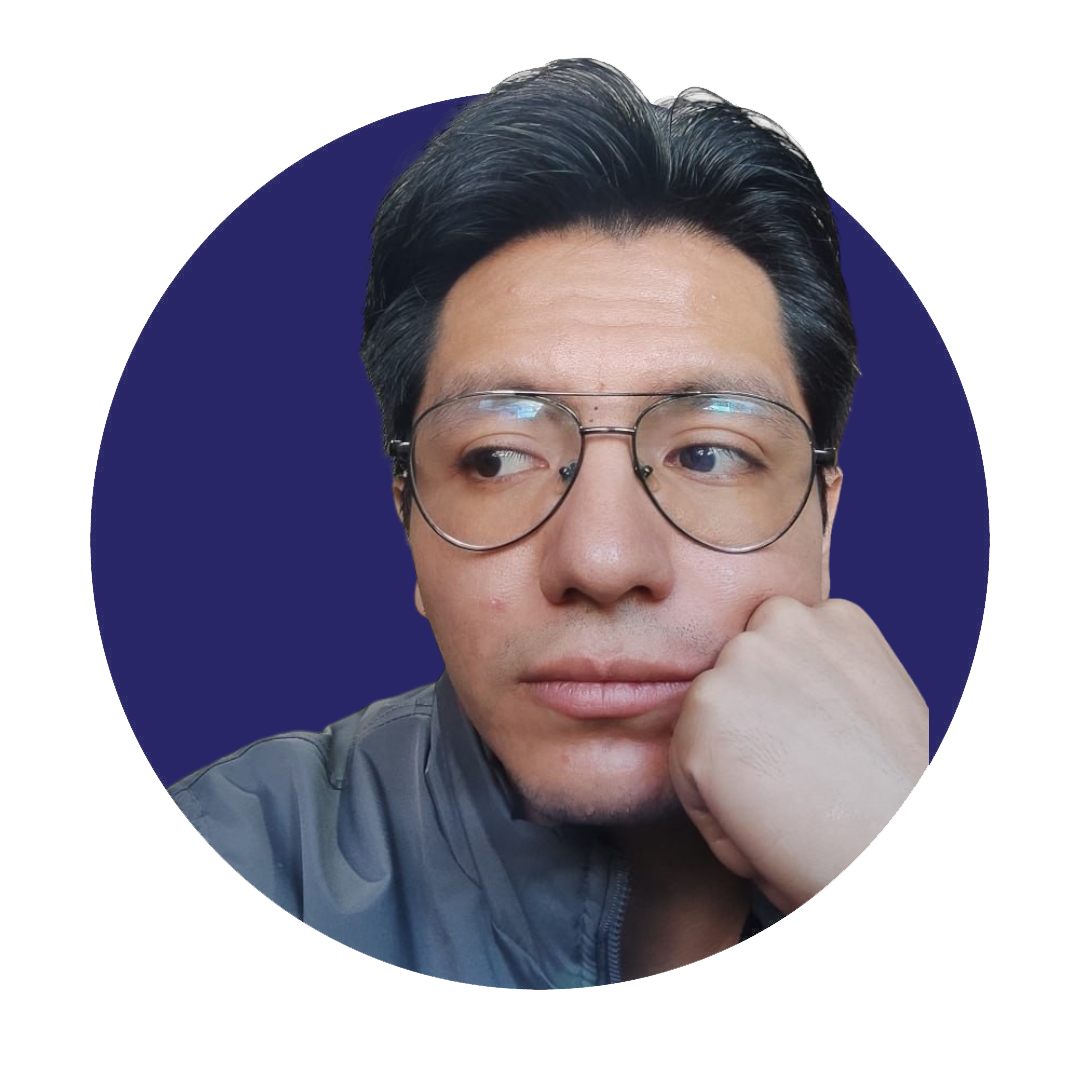
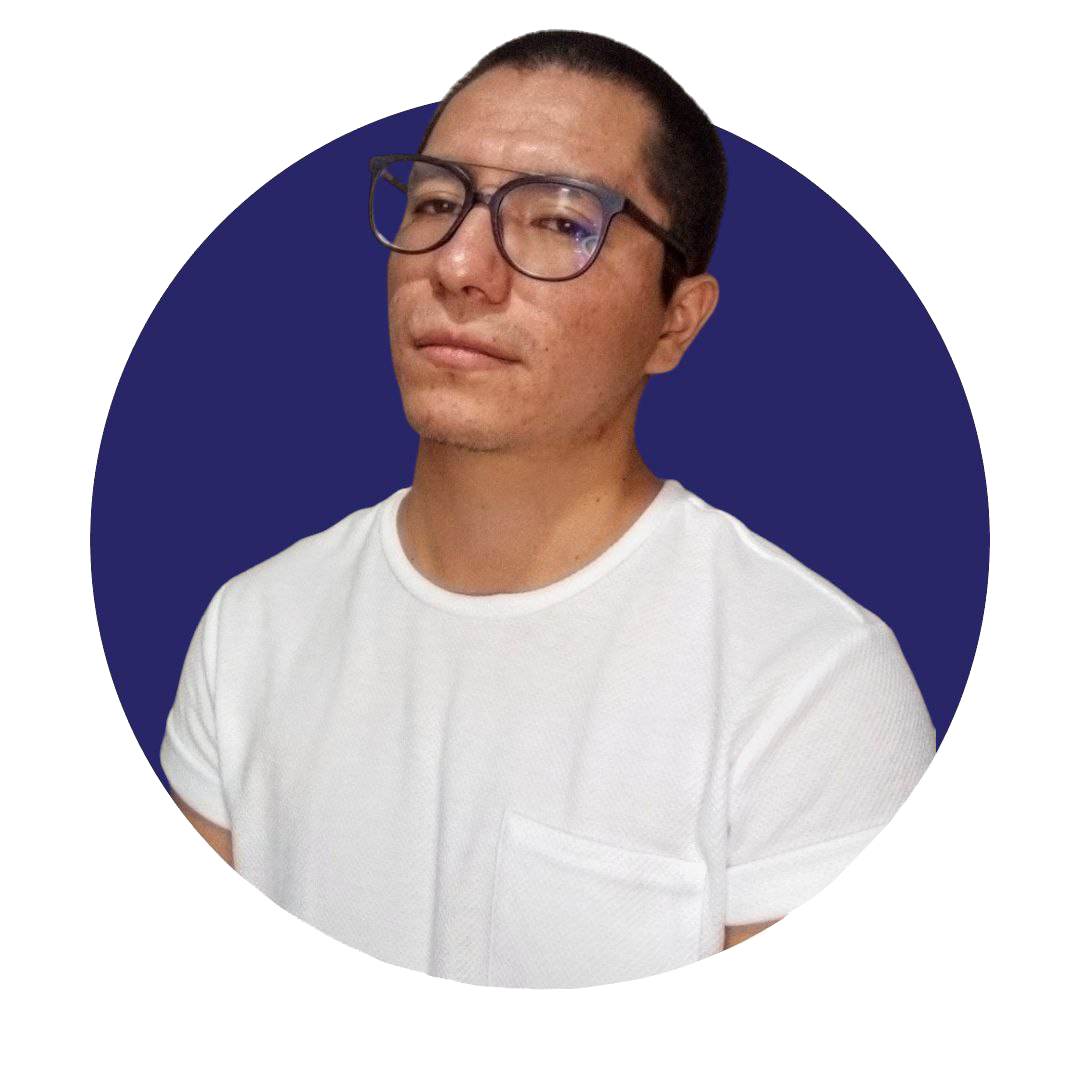
Se corrigió el espaciado en el mensaje YolliCalli del modal de envío. También se modificó la imagen de Jetsael en la sección de conocenos ->aabn

diff --git a/css/nosotros.css b/css/nosotros.css
@@ -534,3 +534,7 @@ button:active {
     font-size: var(--texto-general);
     text-align: center;
 }
+
+.modal-title {
+    letter-spacing: 1px;
+}
